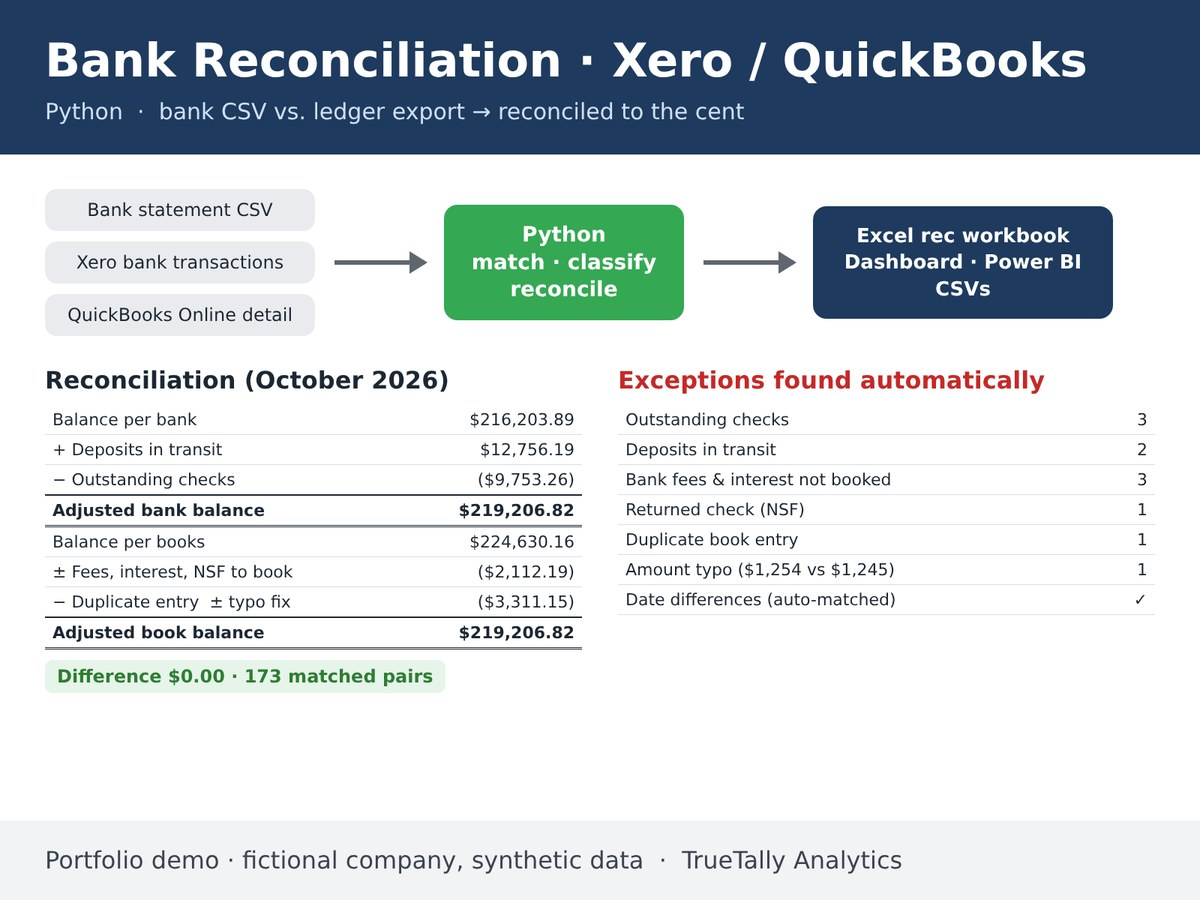
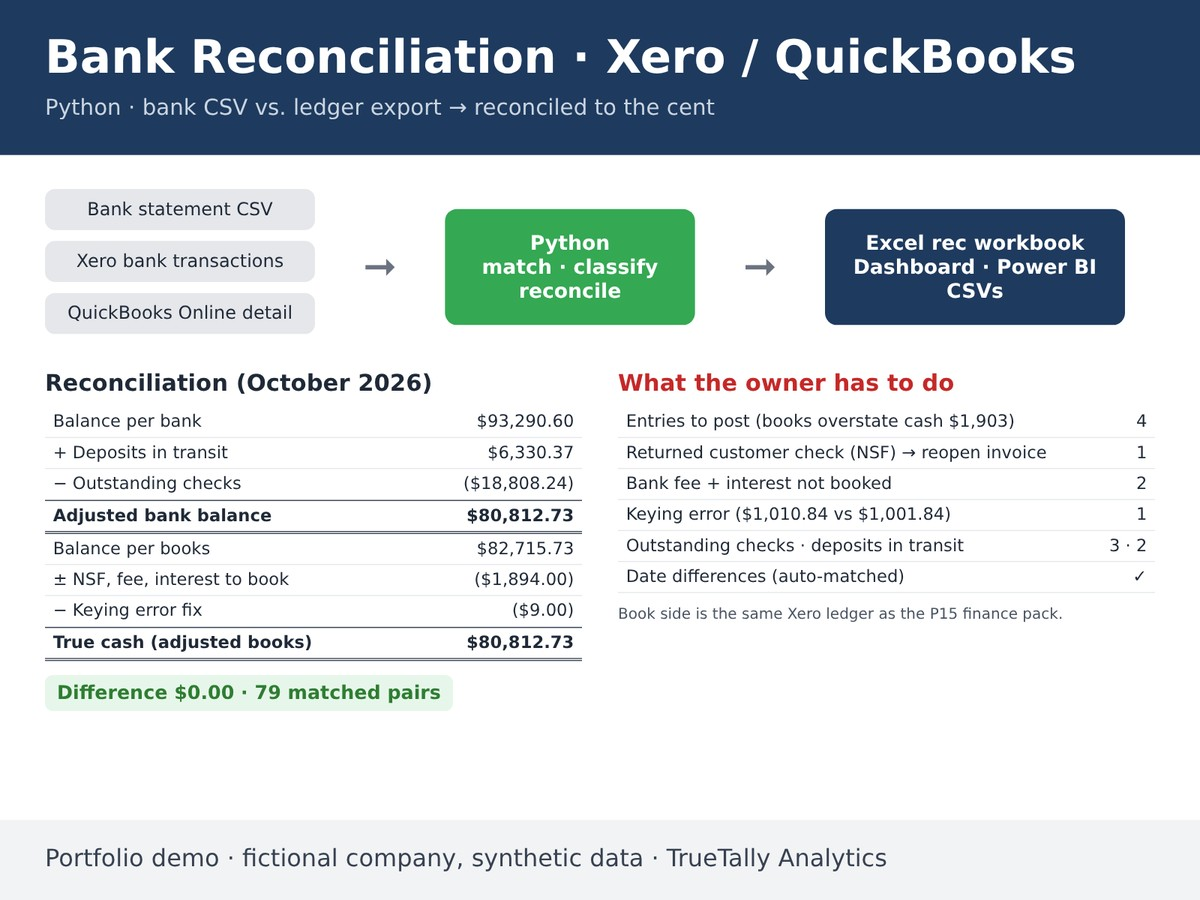
Update public portfolio site (synced from Freelancer-USA Fri 11/27/2026)

diff --git a/index.html b/index.html
@@ -84,8 +84,9 @@
       <div class="item"><img src="img/p09.jpg" alt="Google Sheets maintenance tracker with Apps Script, fictional company" loading="lazy"><div class="body"><h3>Maintenance tracker in Google Sheets</h3><p>Status logic, live dashboard, one-click service logging and a daily overdue email digest via Apps Script. Covered by 8 automated tests.</p><div class="tags"><span class="tag">Google Sheets</span><span class="tag">Apps Script</span></div></div></div>
       <div class="item"><img src="img/p10.jpg" alt="Excel to MySQL pipeline diagram and reconciliation checks" loading="lazy"><div class="body"><h3>Excel tracker to MySQL database</h3><p>Messy workbook cleaned in Python and loaded to a MySQL star schema. 6 of 6 reconciliation checks pass, totals match to the cent.</p><div class="tags"><span class="tag">Python</span><span class="tag">SQL</span><span class="tag">MySQL</span></div></div></div>
       <div class="item"><img src="img/p11.jpg" alt="Multi-store sales reconciliation report" loading="lazy"><div class="body"><h3>Multi-store sales reconciliation</h3><p>Four store exports in different formats consolidated and reconciled. Missing days, duplicates and cash variances flagged in a clean Excel report.</p><div class="tags"><span class="tag">Python</span><span class="tag">pandas</span><span class="tag">Excel</span></div></div></div>
-      <div class="item"><img src="img/p12.jpg" alt="Bank reconciliation for Xero and QuickBooks Online, fictional company" loading="lazy"><div class="body"><h3>Bank reconciliation for Xero &amp; QuickBooks</h3><p>Bank statement vs. Xero or QuickBooks Online export. Outstanding checks, deposits in transit, fees, NSF, duplicates and typos flagged; ties to $0.00. Covered by 6 automated tests.</p><div class="tags"><span class="tag">Python</span><span class="tag">Xero</span><span class="tag">QuickBooks</span><span class="tag">Excel</span></div></div></div>
+      <div class="item"><img src="img/p12.jpg" alt="Bank reconciliation for Xero and QuickBooks Online, fictional company" loading="lazy"><div class="body"><h3>Bank reconciliation for Xero &amp; QuickBooks</h3><p>Bank statement vs. Xero or QuickBooks Online export. Ties to $0.00 and lists what to post: a returned customer check, fees, interest and a keying error that overstate book cash by $1,903. Same ledger as the Xero finance pack. 6 automated tests.</p><div class="tags"><span class="tag">Python</span><span class="tag">Xero</span><span class="tag">QuickBooks</span><span class="tag">Excel</span></div></div></div>
       <div class="item"><img src="img/p14.jpg" alt="n8n workflow reconciling Shopify orders to payouts, fictional store" loading="lazy"><div class="body"><h3>Shopify payout reconciliation in n8n</h3><p>Daily n8n workflow reads orders and payouts exports, removes duplicates, recalculates fees and flags only real exceptions. Output matches an independent Python check to the cent (6 tests).</p><div class="tags"><span class="tag">n8n</span><span class="tag">Shopify</span><span class="tag">Automation</span></div></div></div>
+      <div class="item"><img src="img/p15.jpg" alt="Xero month-end finance pack in Power BI, fictional company" loading="lazy"><div class="body"><h3>Xero month-end finance pack</h3><p>Who to chase this week, whether cash covers next month's bills, and whether the month is ready to close. Eight tie-outs, including the bank reconciliation, must pass at $0.00. Estimates are labeled. 9 automated tests.</p><div class="tags"><span class="tag">Xero</span><span class="tag">Power BI</span><span class="tag">Finance</span></div></div></div>
       <div class="item"><img src="img/p16.jpg" alt="Inventory and logistics Power BI report from QuickBooks Online exports, fictional distributor" loading="lazy"><div class="body"><h3>Inventory &amp; logistics from QuickBooks Online</h3><p>What to reorder today, where cash is sitting, why orders are late and which suppliers put stock at risk. Every chart ends with the action to take; every report ties out to QuickBooks. 14 automated tests.</p><div class="tags"><span class="tag">QuickBooks</span><span class="tag">Power BI</span><span class="tag">Inventory</span></div></div></div>
     </div>
   </div>
